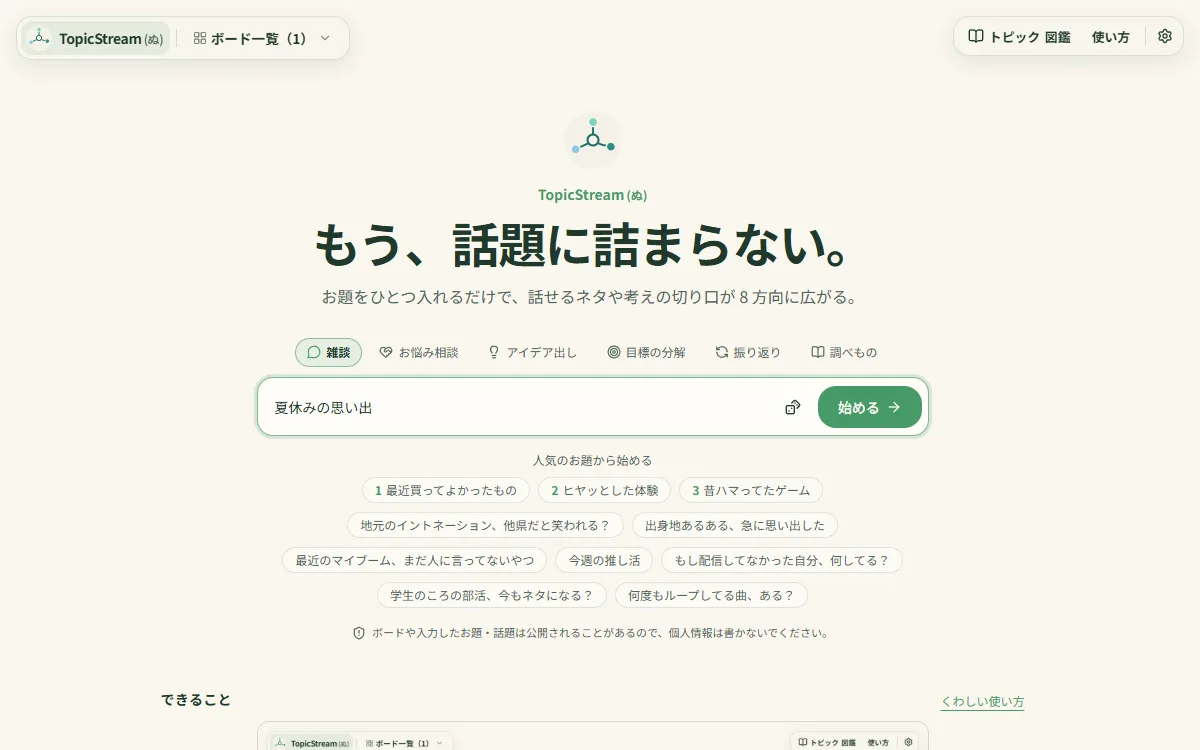
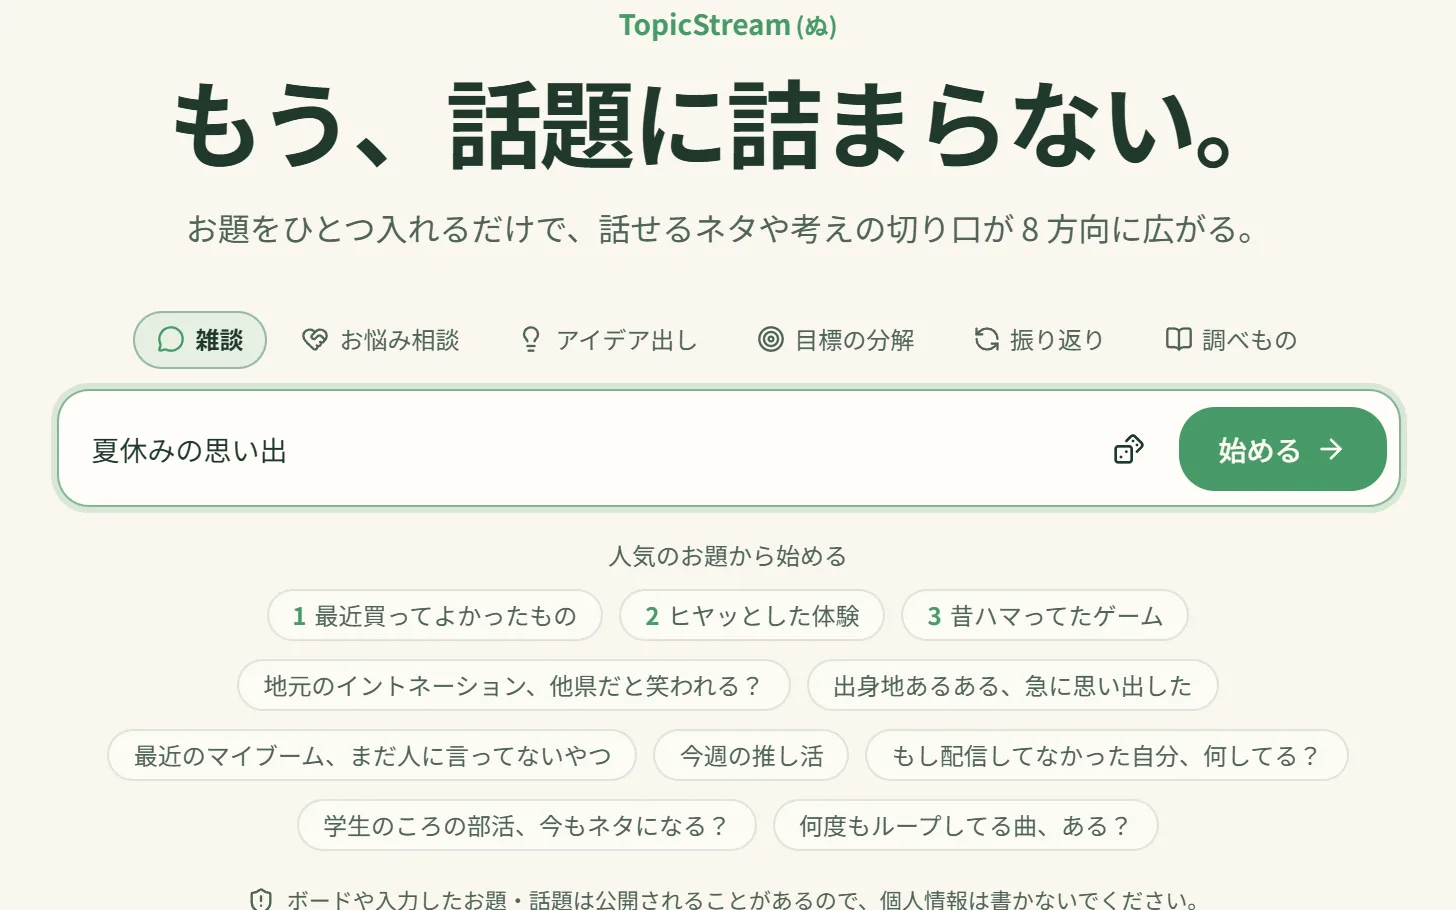
「できること」の画像を要所の切り抜きに撮り直し、「解説を付箋に自動で貼る」を追加
- 撮影スクリプトを 2 倍の細かさで撮り、見てほしい所（入力欄・広がった 8 つ・掛け合わせ・具体化の 8 つ・メニュー）だけを 16:10 で切り抜く形に変更
- ヘッドレスでは撮るまで描画が進まず盤面の動きが撮影時に進むため、空撮りで動きを終わらせてから測る
- 「具体的に掘り下げる」の説明を「抽象展開モードと具体的モードを切り替えられる」に変更
- 解説を付箋に貼る画像と説明を追加（キー無しでも撮れるよう /api/explain の返事はスクリプト内の見本で返す）

diff --git a/src/components/usage-gallery.tsx b/src/components/usage-gallery.tsx
@@ -35,7 +35,12 @@ export const USAGE_STEPS = [
   {
     image: "detail",
     title: "具体的に掘り下げる",
-    body: "エピソード・答え・対応策など、そのまま話せる中身まで出せます。",
+    body: "抽象展開モードと具体的モードを、必要に応じて切り替えられます。",
+  },
+  {
+    image: "explain",
+    title: "解説を付箋に自動で貼る",
+    body: "気になるトピックの解説を、自動で付箋として貼り付けます。",
   },
 ] as const;
 
